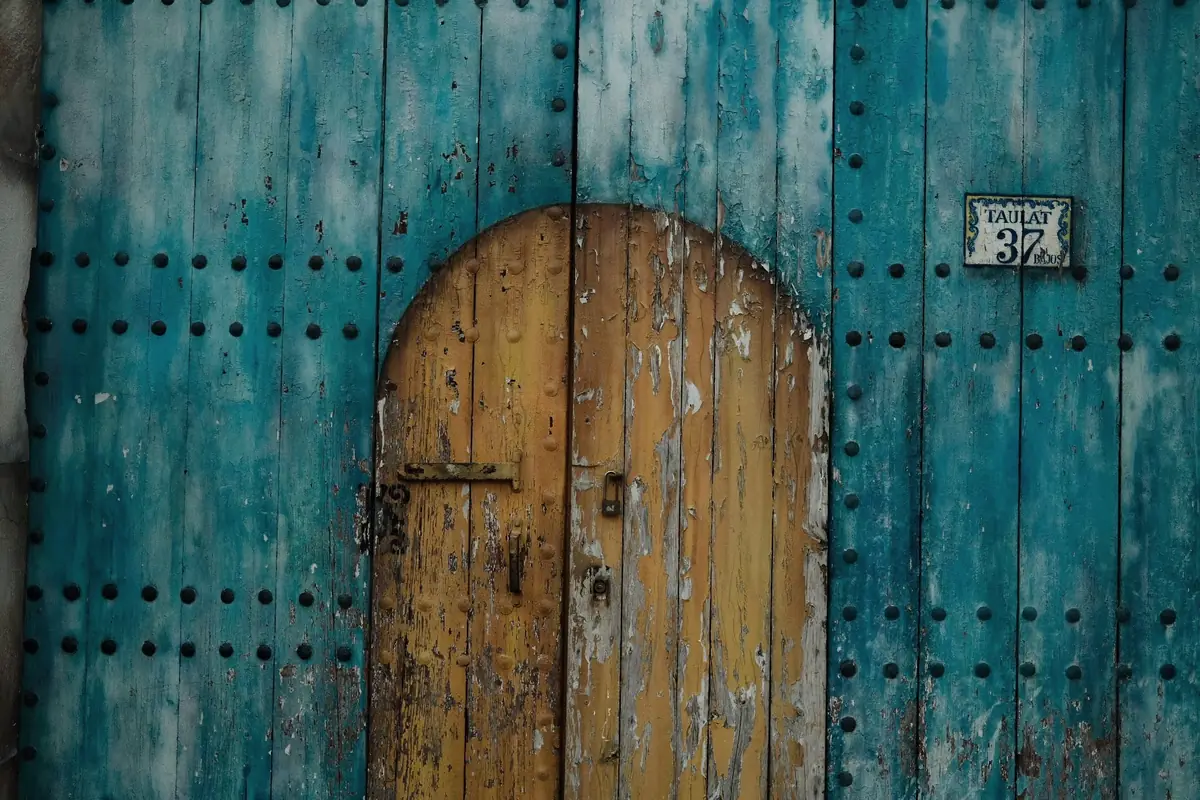
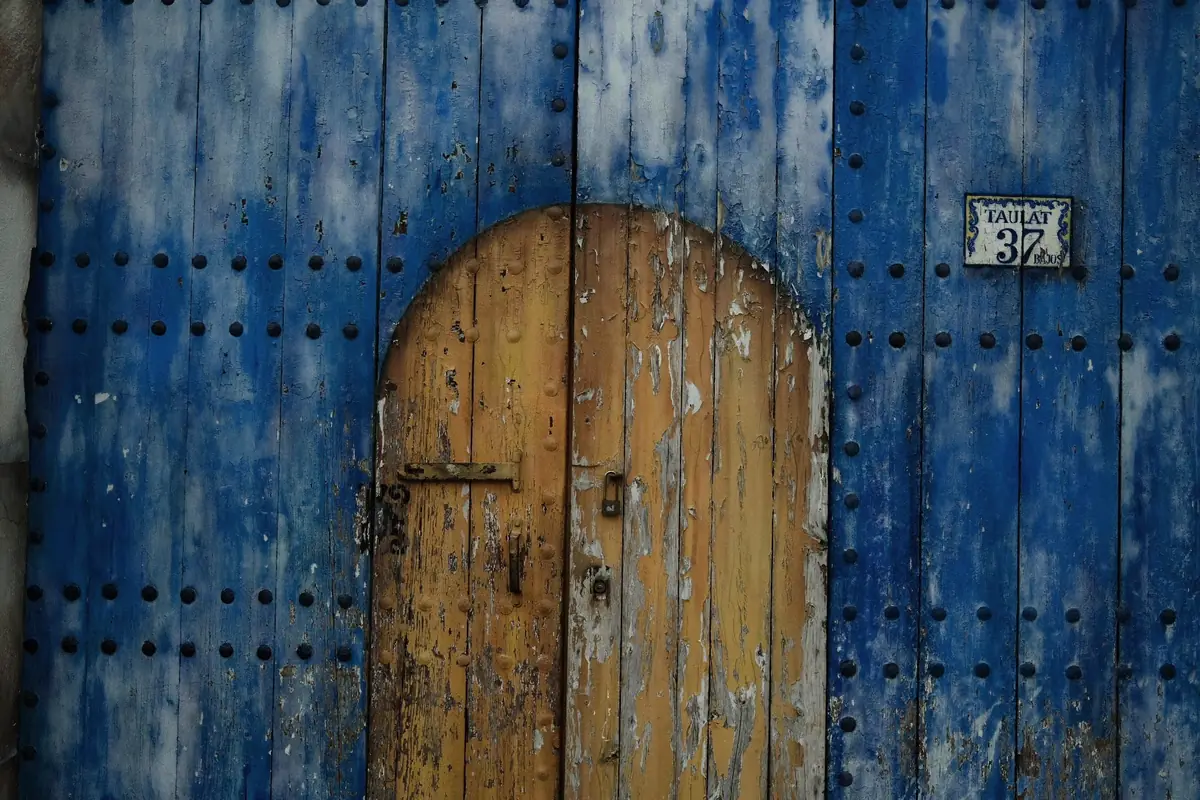
Leçons : porte bleue en 7.3, marché de Noël et légumes en 5.1 (Romain, 05-11 : « je préfère la 2 »)
7.3 : la seule porte des photos de Romain était turquoise, ambiguë face à
« verda » ; seule la teinte passe au bleu, le bois reste intact, la plaque
est gardée. 5.1 : rangée de deux, « lo mercat » (le marché de Noël qu'il
vient d'ajouter, recadré sans visages) et « los legums » (les asperges).
Relu par Joan.

diff --git a/app/src/lib/lesson/moduls/modul-5-1.js b/app/src/lib/lesson/moduls/modul-5-1.js
@@ -114,7 +114,8 @@ export const modul51 = {
 					type: 'fotos',
 					// Photos de Romain (05-11), sans GPS : static/aprene/fotos/
 					imatges: [
-						{ clau: '5-1-mercat', amples: [720, 1200], l: 720, h: 330, oc: 'lo mercat', fr: 'le marché', alt: 'Des bottes d’asperges violettes, vertes et blanches sur un étal de marché.' }
+						{ clau: '5-1-mercat', amples: [400, 800], l: 400, h: 500, oc: 'lo mercat', fr: 'le marché (ici, de Noël)', alt: 'Un marché de Noël la nuit : chalets rouges illuminés, cœurs en pain d’épices, une tour d’horloge au fond.' },
+						{ clau: '5-1-legums', amples: [400, 800], l: 400, h: 500, oc: 'los legums', fr: 'les légumes', alt: 'Une botte d’asperges violettes sur un étal, devant un mur de carreaux blancs.' }
 					]
 				},
 				{

diff --git a/PILOTATGE.md b/PILOTATGE.md
@@ -74,7 +74,7 @@ Une seule marche à suivre, qui fond les 7 étapes de `revisions/2026-10-21-refo
 | 26 | **Pluie de mots** (page de calme, idée de Romain du 04-11) | **essai en ligne le 04-11** : `/ensag/plueja` (non indexé, pas dans le menu) ; trois ambiances (Garriga, Fenèstra, Nuèch), mots occitans qui tombent lentement avec leur définition en italique, molette ou mouvement du téléphone = averse, son de pluie fabriqué dans le navigateur (aucun fichier), pause et réduction des mouvements ; relu par Joan ; mots passés à lo Congrès, données dans `app/src/lib/plueja/scenas.js` ; **avis de Romain (04-11 au soir)** : il aime bien ; il veut des **groupes de vocabulaire par thème**, sur de **vraies photos** ; il y réfléchit encore ; **choix de Romain (04-11, 23 h)** : un thème par unité de l’A1 (huit, avec seulement les mots appris), plus une ambiance poétique ; **fait dans la nuit du 04-11** : les huit thèmes sont en ligne (bouton « Ambient » qui ouvre la liste, Garriga, Fenèstra et Nuèch dans le groupe Poesia), fond sombre teinté en attendant les photos, relu par Joan ; **05-11 : deuxième mouvement, la poussière d’or** (boutons Pluèja / Polsa d’aur) : des grains d’or dessinent au trait l’objet, le mot et sa définition, net au repos ; la molette (six crans environ) ou le doigt soulève la poussière et chaque grain glisse à son tour, de haut en bas, vers sa place dans le mot suivant, comme les points de la croix de l’accueil ; en remontant on revient ; dessins pour les unités 5 et 7 (`app/src/lib/plueja/dessenhs.js`), puis **le même jour pour les huit unités** (Romain : « Oui, dessine ») : 80 dessins des objets concrets, relus par Joan (treize écartés en tout : salutations, lieux abstraits, tailles, positions ambiguës) ; salutations, nombres, jours et couleurs se forment sans dessin ; « la cosina » n’a la marmite que pour la cuisine, pas pour la cousine ; la roue et le tunnel restent en esquisses ; relu par Joan ; **05-11, après l’essai de Romain** (« la netteté devrait arriver bien plus vite une fois que les poussières sont regroupées… j’imagine une explosion du mot avec une reconstitution du prochain… qu’on puisse jouer avec l’effet et que ce soit très satisfaisant ») : le mot **éclate** (trois crans de molette, un clic, un toucher, un glissé vif vers le haut ou le bas, les flèches) et le suivant se reconstitue de haut en bas en un peu plus d’une seconde ; la netteté vient pendant que les grains se posent ; la molette tend d’abord le mot, qui gonfle et frémit ; la souris ou le doigt écarte et entraîne la poussière, qui revient doucement ; relu par Joan ; **le même soir** (Romain : « C’est très bien… encore plus joli et agréable et organique… des poussières encore plus fines… attention à la transition entre poussière et net ») : grains plus fins et plus nombreux, la poussière s’enroule en tourbillons doux pendant l’éclat, le dessin, le mot et la définition deviennent nets chacun à son tour et un grain en retard s’efface au lieu de traîner à côté du mot net ; la main ne défait que ce qu’elle touche ; au repos, plus aucun calcul ; relu par Joan ; **consolidation** (Romain, 05-11 : « une préférence pour la poussière d’or… consolider la logique de ces outils », puis « Consolider d’abord ») : la poussière d’or s’ouvre par défaut ; les 195 mots des unités renvoient chacun à une chose apprise de leur leçon (un test le vérifie, comme pour les jeux), métiers de la 4.3 et *gris* ajoutés ; nouvelle ambiance « Tos mots » en tête du menu, tirée du carnet de l’élève (mots à revoir d’abord ; carnet vide : renvoi vers S’apren) ; Garriga, Fenèstra et Nuèch ont leurs dessins (36 mots concrets ; pierre, rosée et thym masqués sur avis de Joan) ; page `/ensag/dessenhs` (non indexée) avec tous les dessins ; relu par Joan. Plus tard : corpus personnel ou tiré d’un PDF. **Le même soir** : Romain garde tous les dessins (« il faut rester sur ce style » ; la patate refaite, plus allongée) et demande d’intégrer la page au site : elle devient **« Remira »** (contemple ; « Je crois que je préfère Remira »), rubrique de S’apren à `/apren/remira` (case après « Mots en imatges », menu, pied de page, plan du site, pictogramme de poussière qui se pose en mot ; l’essai `/ensag/plueja` y renvoie ; indexée) ; texte de la case en oc/fr, es/en/ca/ar par Aran ; relu par Joan ; **les huit unités ont leur photo de Romain le 05-11** (sa sélection `design-stock/Fotos/Bases_foto`, hors Git ; 462 Ko, sans GPS ; Nuèch garde son ciel dessiné ; relu par Joan) | Romain : essayer l’éclat de la poussière d’or sur ordinateur et téléphone (molette, clic, doigt, balayage) ; relire l’occitan de l’interface (*Movement*, *Lisa lo det* ; *Polsa d’aur* gardé par Romain le 05-11) ; dire quels dessins garder ; décider si la roue mérite d’être construite ; dire si les huit photos d'unité conviennent (fonds du 05-11, à changer d'un mot) ; regarder sur ordinateur et téléphone, relire les mots et définitions (doutes : garric, euse, espic, marin, sompet, pena, trevar ; « la cigale, qui se tait quand il pleut » et « le temps, celui qui passe et celui qu'il fait » à garder ou non) ; décider s'il faut la relier au site et où | Romain |
 | 27 | **Jeux classiques pour apprendre** (idée de Romain du 04-11 : le serpent, les blocs qui tombent…) | **deux jeux en ligne le 05-11** sur `/ensag/jocs` (non indexé, hors menu ; espace plein écran, un onglet par jeu ; cahier §11 des 04-11 et 05-11) : *La sèrp de las letras* (choix de Romain, A sur 3 : la sèrp mange les lettres du mot dont on lit le sens, sa queue l'écrit ; 40 mots des unités 1 et 2 ; depuis le 05-11 elle mange aussi les lettres fausses, Espace les recrache, aide « Cossí jogar » au départ, bords fluides, tête qui mord, lettres centrées) et *Los panièrs* (un mot tombe, on le range dans le bon panier ; trois thèmes, 38 mots des unités 1 et 2) ; réglages en trois blocs (Nivèl ou Tèma, Reglatges, actions) ; code dans `app/src/lib/jocs/` (données contrôlées contre les modules par des tests) ; relu par Joan ; gardé pour la suite : *Los parelhs* (paires question et réponse) | Romain : jouer sur ordinateur et téléphone ; relire l'occitan de l'interface (*Cossí jogar*, *Escupir la darrièra letra*, *Letra falsa*, *Lo mot torna*, *Plen !*, *Tot es dins los panièrs*) ; trancher : *Letra 3 sus 7* ou *de 7* ; *Amont / Aval* ou *Naut / Bas* ; dire où ranger l'espace de jeux dans le site | Romain ; allure reprise le 05-11 (Romain : « L’allure ») : paniers d’osier dessinés, couloirs de chute, grains d’or, mot des deux paniers qui vole de l’un à l’autre, même lumière sur la sèrp ; puis (05-11) mots posés au fond des paniers en suivant leurs bords, bouton « Plen ecran » dans les deux jeux (ordre *plen ecran* à valider), flèche du bas au départ qui lance sans lâcher ; Romain : « ça fait très IA encore » (Joan : dégradé à halo, pastilles dorées partout, boutons rouges identiques) ; essai d’allure « Teula » le 05-11 sur `/ensag/jocs-essai` (mêmes jeux, habillés depuis la page seulement : titre géant, aplats et filets, mots et lettres en tuiles de terre cuite, plus de verre fumé ni de halo ; relu par Joan), Romain tranche : l’adopter pour les vrais jeux ou non ; second tour sur l’essai le 05-11 (Romain : couleurs à revoir, sèrp pas assez vive, panier qui doit épouser la forme jusqu’à être plein) : sèrp qui tourne tout de suite et accélère flèche tenue, paniers remplis jusqu’au bord en épousant la courbe (rangs calculés pour le plus grand texte possible, au moins 12 px sur téléphone, `paniers-pila.js`), trois palettes à comparer (`?teinta=a`, `b`, `c`) ; Romain choisit la crème (A) le 05-11 : l’allure Teula passe sur `/ensag/jocs`, l’adresse d’essai y renvoie ; reste à valider « Sageta tenguda : la sèrp accelèra. » ; le 05-11 au soir, « le el est trop petit » : un mot court compte comme un mot de 9 lettres et le niveau monte plus vite au début, premier mot ≥ 12,6 px sur téléphone (avant 8) ; **rubrique de S'apren le 05-11 au soir** (Romain : « une rubrique à part entière dans S'apren ») : `/apren/jocs`, case « Jòcs » (4e, dé), menu, pied de page, plan du site, anciennes adresses renvoyées ; base écrite le soir même avec l'accord de Romain (lignes de la case, ordre 4 à 7), es/en/ca/ar relus par Aran ; reste à valider « Sageta tenguda : la sèrp accelèra. » |
 | 28 | **Espace enfants « Anem ! »** (idée de Romain du 04-11 : découvrir l’occitan, pour les tout-petits) | **cadré le 04-11** (cahier §11) : les 3 à 6 ans qui ne lisent pas, un imagier et des comptines traditionnelles avec la voix de Romain, une case dans S'apren une fois prêt, ni compte ni donnée collectée ; **rubrique visible `/anem` depuis le 05-11** (case 3 de S'apren à la place de la leçon d'essai, pictogramme poussin, huit bêtes, quatre choix par tour), relu par Joan ; **quatrième coin « L’ostal », la maison à colorier du doigt, le 05-11** ; nom « Zo ! » du 04-11 remplacé le 05-11 (se lit comme il se dit) | Romain : enregistrer les 20 fichiers audio (16 bêtes, 4 maison), choisir deux ou trois comptines, choisir la fiche suivante (le corps, même mécanique ; couleurs, fruits…) | Romain |
-| 29 | **Photos de Romain** (sa sélection de 163 photos, 05-11 ; cinq usages proposés) | rangées hors Git (`Lo_Ligam_hors-git`, septième jonction) ; **fonds de la pluie de mots faits** (chantier 26) ; **illustrations des leçons faites le 05-11** : bloc `fotos`, six leçons (1.3, 5.1, 6.2, 7.1, 7.3, 8.1), légende occitan puis français, sans GPS, relu par Joan (cahier §11) | Romain : regarder les six leçons sur ordinateur et téléphone, dire quelle photo changer ; choisir l’usage suivant : jeu « L’occitan dans la rue » (plaques et enseignes posées sur la carte), scènes des unités, défilé de paysages ; autorisation écrite avant toute photo où l’on reconnaît quelqu’un | Romain |
+| 29 | **Photos de Romain** (sa sélection de 163 photos, 05-11 ; cinq usages proposés) | rangées hors Git (`Lo_Ligam_hors-git`, septième jonction) ; **fonds de la pluie de mots faits** (chantier 26) ; **illustrations des leçons faites le 05-11** : bloc `fotos`, six leçons (1.3, 5.1, 6.2, 7.1, 7.3, 8.1), légende occitan puis français, sans GPS, relu par Joan (cahier §11) | Romain : regarder les six leçons sur ordinateur et téléphone, dire quelle photo changer (porte de 7.3 bleuie et marché de Noël en 5.1 le 05-11, à sa demande) ; il continue d’ajouter des photos au dossier (199 le 05-11 au soir, beaucoup avec des gens : autorisation avant usage) ; choisir l’usage suivant : jeu « L’occitan dans la rue » (plaques et enseignes posées sur la carte), scènes des unités, défilé de paysages ; autorisation écrite avant toute photo où l’on reconnaît quelqu’un | Romain |
 
 Petits restes, détaillés dans l'archive : côte OpenStreetMap autour de la France (`node SIG/cadena/costa-osm.mjs`, puis `mar.py` et `costa-ref.py`), Lomagne (attente d'une source), photos des vallées d'Italie, attribution de la revue Duolingo dans `corpus-design.md`, sort d'`unitat-1-adieu.md`, laquelle des deux maquettes photo fait foi.
 

diff --git a/cahier-des-charges.md b/cahier-des-charges.md
@@ -520,7 +520,7 @@ Signer les accords, créer les comptes, héberger, gérer l'argent et les décla
 | 2026-11-05 | **La page de calme s’appelle « Remira » et entre dans S’apren** (Romain : « les dessins me semblent très bien… il faut rester sur ce style… on peut commencer à intégrer au site réel les interfaces », puis, pour le nom, « un moyen de faire référence au calme, à l’apprentissage, à la visualisation, à la contemplation… un truc avec mots », et « Je crois que je préfère Remira ») : *remira*, impératif de *remirar* (contempler, vèrb’Òc), le même dans toutes les langues ; adresse `/apren/remira`, case dans S’apren après « Mots en imatges », menu et pied de page ; l’adresse d’essai renvoie ; la page des dessins reste une page de travail | Décision Romain. Style des dessins au trait validé, à ne plus changer |
 | 2026-11-05 | **Les jeux deviennent une rubrique à part entière de S'apren** (Romain, le soir : « Commence à mettre en ligne au bon endroit. Le jeu. Ça devrait être une rubrique à part entière dans S'apren ») : `/ensag/jocs` devient `/apren/jocs` (indexée, avec description, la sortie mène à S'apren) ; case « Jòcs » en quatrième position de S'apren, après Anem !, avec le dé pour pictogramme (« Dos jòcs per jogar amb los mots : la sèrp de las letras e los panièrs. ») ; entrée dans le menu, le pied de page et le plan du site ; les anciennes adresses d'essai renvoient (301). La case vit dans le filet, la semence et la base (lignes et ordre des cases écrits le soir même, avec l'accord de Romain, après un premier refus du garde-fou de l'application). |
 | 2026-11-05 | **Pluie de mots : les huit unités sur les photos de Romain** (Romain : « Fonds de la pluie », premier des cinq usages proposés pour sa sélection de 163 photos, `design-stock/Fotos/Bases_foto`, hors Git) : *Adieu !* toits de Montpellier à l'aube ; *Parlas occitan ?* librairie occitane de Limoges ; *La familha* maison en pierre et tables dans la cour ; *Qué fas ?* chemin de sable ; *Al mercat* asperges violettes (recadrées sans les étiquettes en français, Joan) ; *La jornada* neige à Montpellier ; *L'ostal* porte bleue ; *En vila* gare de Limoges. 1280 px, WebP, sans aucune métadonnée (88 photos de la sélection ont un GPS), saturation −15 % (recette §3bis) et luminosité du centre ramenée vers celle de Garriga ; 462 Ko pour les huit, chacune chargée à la première visite. Garriga et Fenèstra étaient déjà ses photos ; Nuèch garde son ciel dessiné (ses étoiles tomberaient sur les toits). Restent proposés : scènes d'unité, jeu « L'occitan dans la rue », défilé de paysages, illustrations de leçons ; quatre photos montrent des gens reconnaissables, pas sans autorisation écrite | De vraies photos du territoire à la place des fonds d'attente, sans rien de personnel en ligne |
-| 2026-11-05 | **Leçons : les photos de Romain en illustration** (Romain : « Illustrations d’abord », deuxième des cinq usages de sa sélection) : nouveau bloc de leçon `fotos` (`app/src/lib/lesson/FotosBlock.svelte`, passif) : une photo seule en pleine largeur, ou une rangée de deux à quatre en 4:5, côte à côte quand la place suffit, sinon qui défile au doigt jusqu’au bord de l’écran ; légende : le mot occitan de la leçon, puis le français. Six leçons : 1.3 (*Barcelona*, *Besièrs*, *Tolosa*), 5.1 (*lo mercat*), 6.2 (*fa solelh*, *fa vent*, *Nèva*), 7.1 (*l’ostal*), 7.3 (*la pòrta blava*), avant le dialogue de l’étape 2 ; 8.1 (*la gara*, *la carrièra*, *la plaça*, *la glèisa*), avant « À retenir » de l’étape 4. Fichiers dans `app/static/aprene/fotos/` : sRGB, sans métadonnées ni GPS, saturation −15 %, deux largeurs (1,5 Mo en tout, un visiteur n’en charge qu’une taille) ; aucune personne reconnaissable ; mots repris des leçons, passés à lo Congrès ; relu par Joan. |
+| 2026-11-05 | **Leçons : les photos de Romain en illustration** (Romain : « Illustrations d’abord », deuxième des cinq usages de sa sélection) : nouveau bloc de leçon `fotos` (`app/src/lib/lesson/FotosBlock.svelte`, passif) : une photo seule en pleine largeur, ou une rangée de deux à quatre en 4:5, côte à côte quand la place suffit, sinon qui défile au doigt jusqu’au bord de l’écran ; légende : le mot occitan de la leçon, puis le français. Six leçons : 1.3 (*Barcelona*, *Besièrs*, *Tolosa*), 5.1 (*lo mercat*, un marché de Noël, et *los legums*), 6.2 (*fa solelh*, *fa vent*, *Nèva*), 7.1 (*l’ostal*), 7.3 (*la pòrta blava* : la seule porte de ses photos était turquoise, ambiguë face à *verda* ; teinte passée au bleu, bois intact, Romain : « je préfère la 2 » ; plaque « Taulat 37 » gardée, « une adresse publique », pas la sienne), avant le dialogue de l’étape 2 ; 8.1 (*la gara*, *la carrièra*, *la plaça*, *la glèisa*), avant « À retenir » de l’étape 4. Fichiers dans `app/static/aprene/fotos/` : sRGB, sans métadonnées ni GPS, saturation −15 %, deux largeurs (1,5 Mo en tout, un visiteur n’en charge qu’une taille) ; aucune personne reconnaissable ; mots repris des leçons, passés à lo Congrès ; relu par Joan. |
 | — | *(à compléter)* | |
 
 ---
